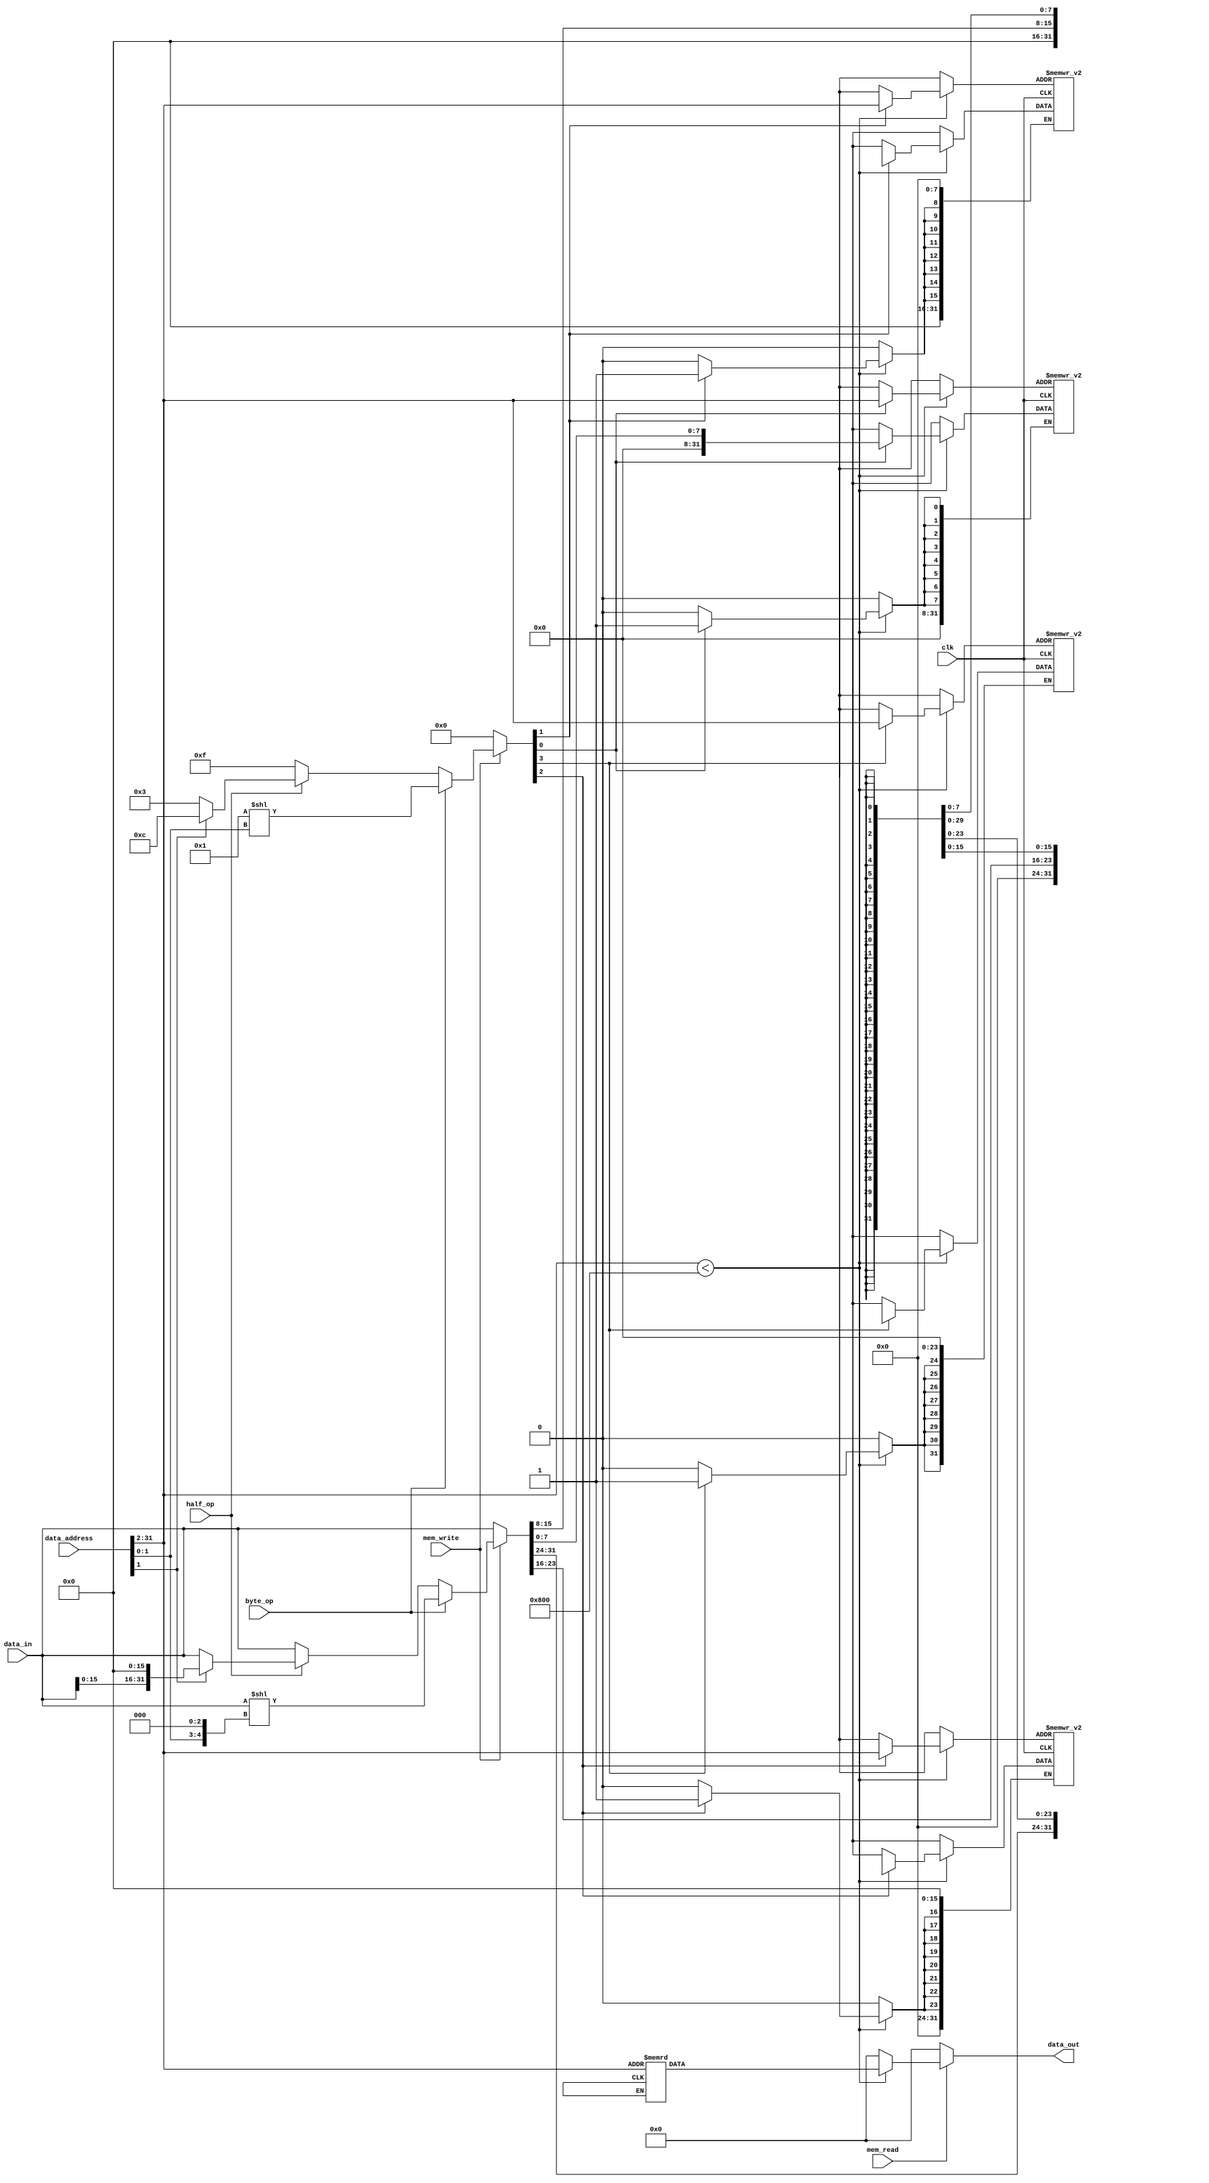
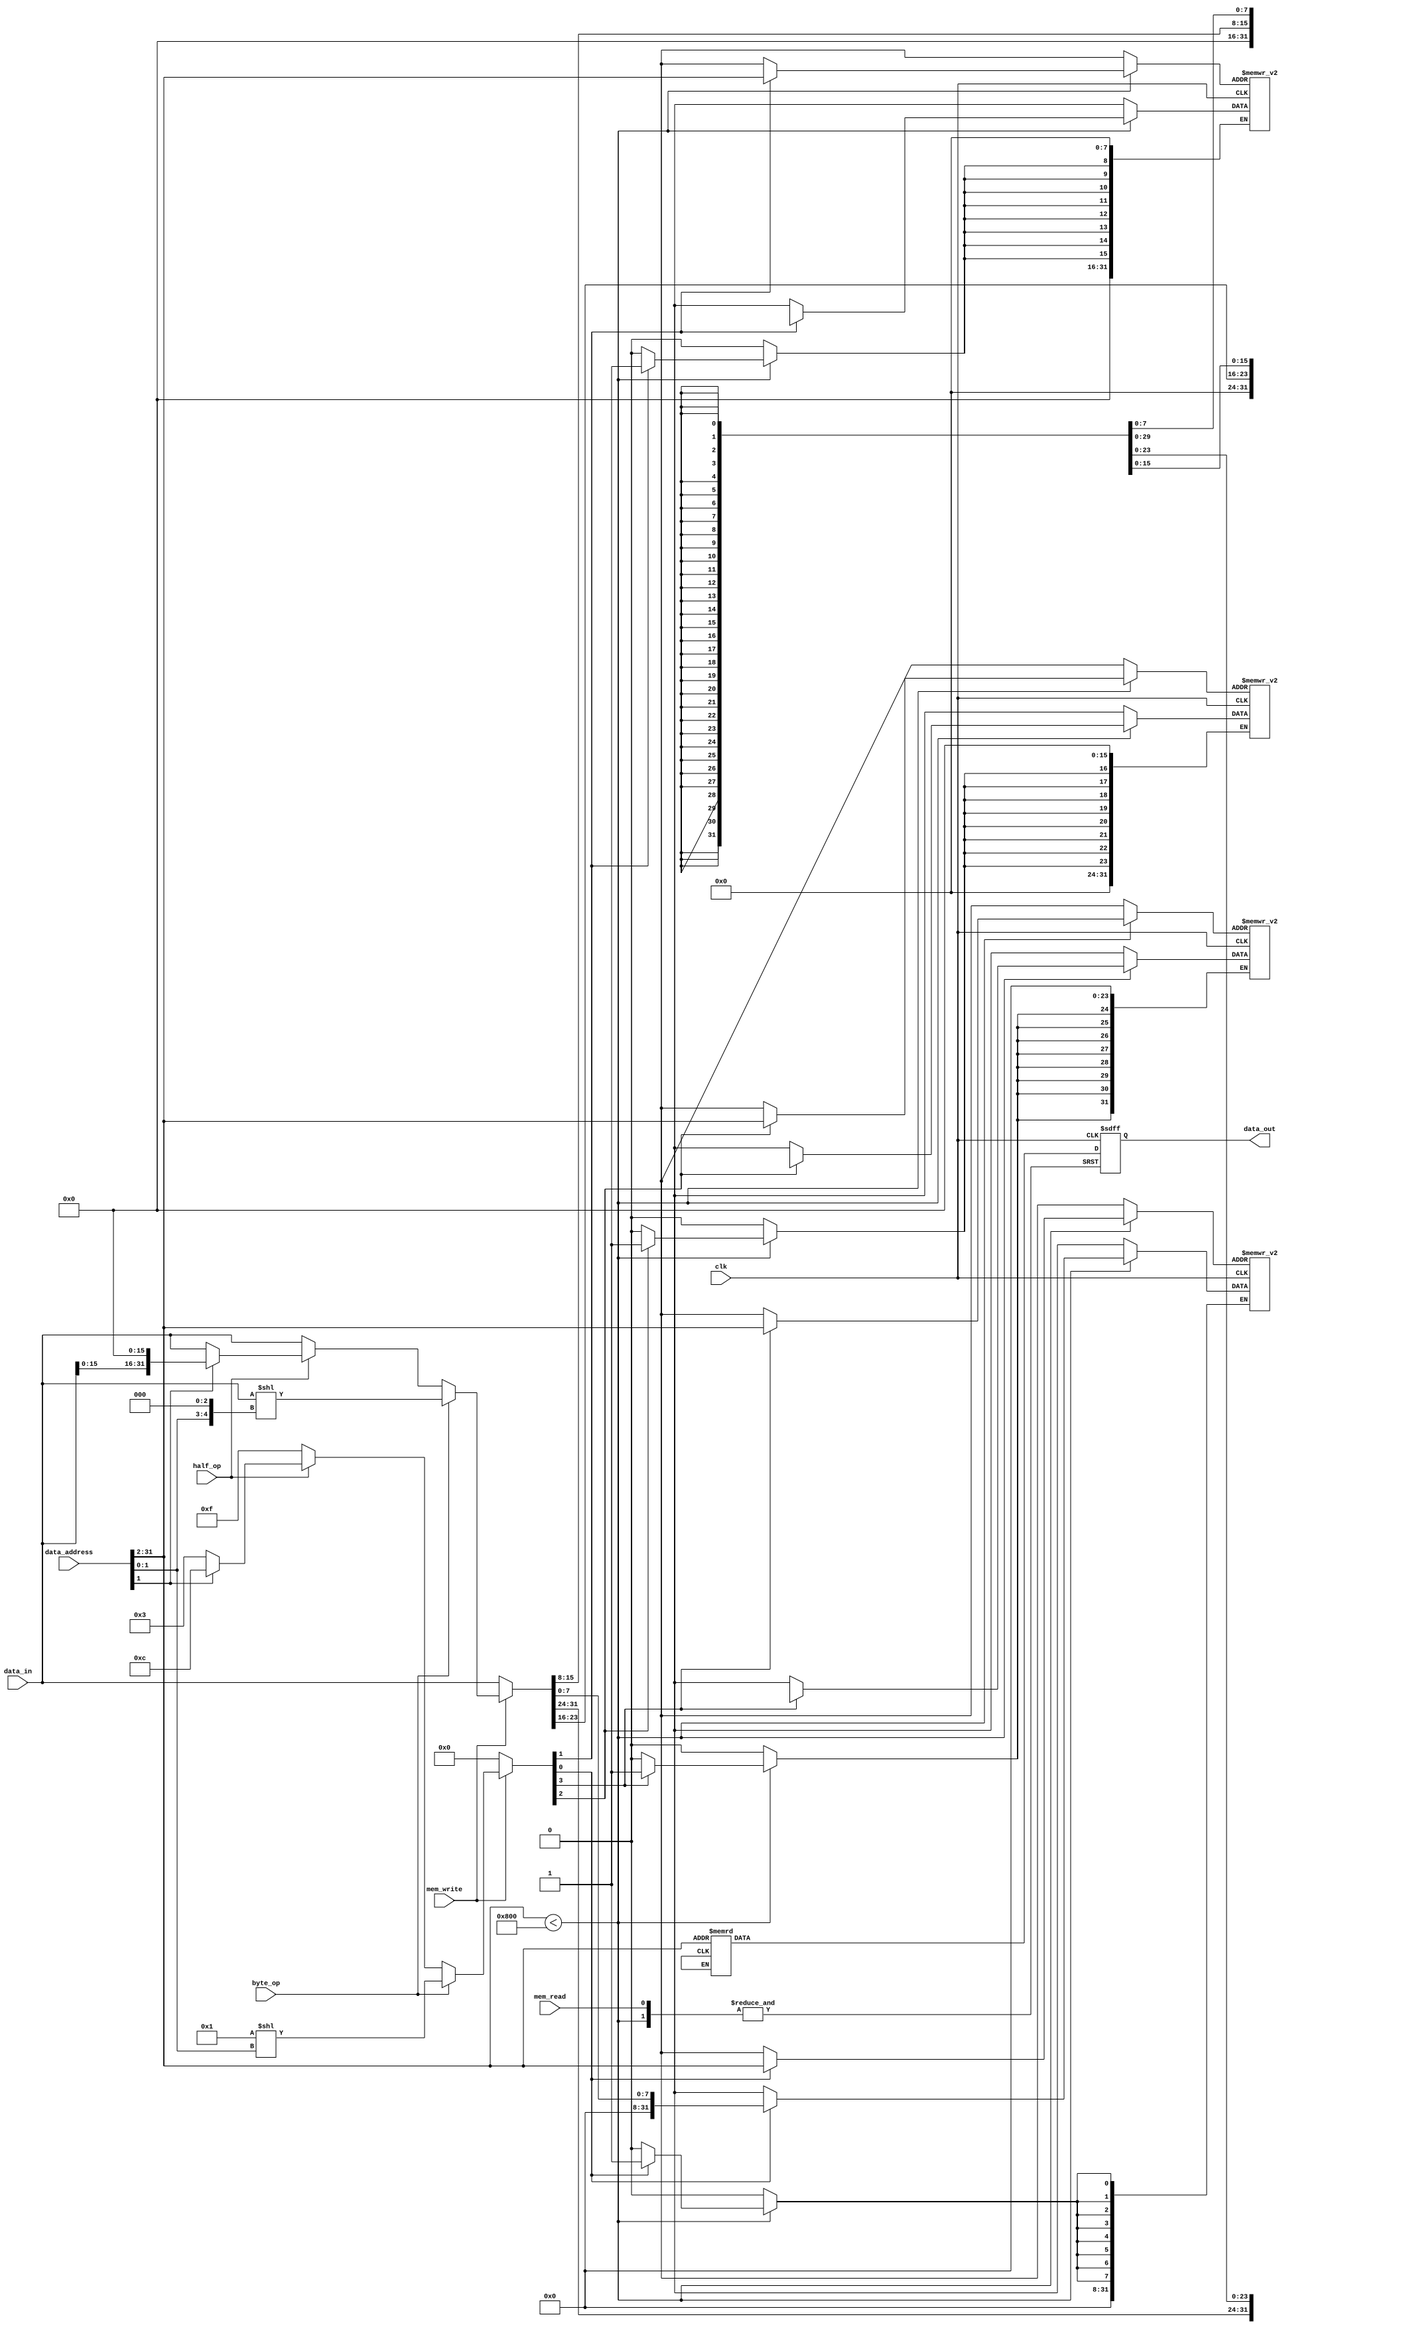
WIP

diff --git a/python_helper/logging.py b/python_helper/logging.py
@@ -1,202 +1,180 @@
-from cocotb.triggers import RisingEdge
+from cocotb.utils import get_sim_time
 
 from python_helper.converter import binary_to_assembly
 
-async def log_signals_pc_one(logger, dut):
-    while True:
-        await RisingEdge(dut.clk_from_FPGA)
-        # PC
-        try: 
-            logger.critical(f"PC = {dut.instr_add.value.to_unsigned()}")
-            logger.critical(f"PC = 0x{dut.instr_add.value.to_unsigned():08x}")
-        except Exception:
-            logger.critical(f"PC = {dut.instr_add.value}")
+# async def log_signals_single_cycle_rv32i(logger, dut):
+#     while True:
+#         await RisingEdge(dut.clk_from_FPGA)
+#         # PC
+#         try: 
+#             logger.critical(f"PC = {dut.instr_add.value.to_unsigned()}")
+#             logger.critical(f"PC = 0x{dut.instr_add.value.to_unsigned():08x}")
+#         except Exception:
+#             logger.critical(f"PC = {dut.instr_add.value}")
 
-        # Instruction 
-        try: 
-            logger.info(f"instruction = {binary_to_assembly((dut.instruction.value.to_unsigned()))}")
-        except Exception:
-            logger.info(f"instruction = {dut.instruction.value}")
+#         # Instruction 
+#         try: 
+#             logger.info(f"instruction = {binary_to_assembly((dut.instruction.value.to_unsigned()))}")
+#         except Exception:
+#             logger.info(f"instruction = {dut.instruction.value}")
 
-        # reg_write_control
-        try: 
-            logger.info(f"reg_write_control = {dut.core_instance.reg_file_instance.reg_write_control.value.to_unsigned()}")
-        except Exception:
-            logger.info(f"reg_write_control = {dut.core_instance.reg_file_instance.reg_write_control.value}")   
+#         # reg_write_control
+#         try: 
+#             logger.info(f"reg_write_control = {dut.core_instance.reg_file_instance.reg_write_control.value.to_unsigned()}")
+#         except Exception:
+#             logger.info(f"reg_write_control = {dut.core_instance.reg_file_instance.reg_write_control.value}")   
 
-        # reg_write_data
-        try: 
-            logger.info(f"reg_write_data = {dut.core_instance.reg_file_instance.reg_write_data.value.to_unsigned()} or " + 
-                        f"0x{dut.core_instance.reg_file_instance.reg_write_data.value.to_unsigned():08x}")
-        except Exception:
-            logger.info(f"reg_write_data = {dut.core_instance.reg_file_instance.reg_write_data.value}")   
+#         # reg_write_data
+#         try: 
+#             logger.info(f"reg_write_data = {dut.core_instance.reg_file_instance.reg_write_data.value.to_unsigned()} or " + 
+#                         f"0x{dut.core_instance.reg_file_instance.reg_write_data.value.to_unsigned():08x}")
+#         except Exception:
+#             logger.info(f"reg_write_data = {dut.core_instance.reg_file_instance.reg_write_data.value}")   
 
-        # dest_reg
-        try: 
-            logger.info(f"dest_reg = {dut.core_instance.reg_file_instance.dest_reg.value.to_unsigned()}")
-        except Exception:
-            logger.info(f"dest_reg = {dut.core_instance.reg_file_instance.dest_reg.value}")   
+#         # dest_reg
+#         try: 
+#             logger.info(f"dest_reg = {dut.core_instance.reg_file_instance.dest_reg.value.to_unsigned()}")
+#         except Exception:
+#             logger.info(f"dest_reg = {dut.core_instance.reg_file_instance.dest_reg.value}")   
 
-        # mem_write
-        try: 
-            logger.info(f"ram_mem_write = {dut.ram_instance.mem_write.value.to_unsigned()}")
-        except Exception:
-            logger.info(f"ram_mem_write = {dut.ram_instance.mem_write.value}")
+#         # mem_write
+#         try: 
+#             logger.info(f"ram_mem_write = {dut.ram_instance.mem_write.value.to_unsigned()}")
+#         except Exception:
+#             logger.info(f"ram_mem_write = {dut.ram_instance.mem_write.value}")
 
-        # data_in
-        try: 
-            logger.info(f"data_in ram = {dut.ram_instance.data_in.value.to_unsigned()} or " +
-                        f"0x{dut.ram_instance.data_in.value.to_unsigned():08x}")
-        except Exception:
-            logger.info(f"data_in ram = {dut.ram_instance.data_in.value}")
+#         # data_in
+#         try: 
+#             logger.info(f"data_in ram = {dut.ram_instance.data_in.value.to_unsigned()} or " +
+#                         f"0x{dut.ram_instance.data_in.value.to_unsigned():08x}")
+#         except Exception:
+#             logger.info(f"data_in ram = {dut.ram_instance.data_in.value}")
 
-        # mem_read
-        try: 
-            logger.info(f"ram_mem_read = {dut.ram_instance.mem_read.value.to_unsigned()}")
-        except Exception:
-            logger.info(f"ram_mem_read = {dut.ram_instance.mem_read.value}")
+#         # mem_read
+#         try: 
+#             logger.info(f"ram_mem_read = {dut.ram_instance.mem_read.value.to_unsigned()}")
+#         except Exception:
+#             logger.info(f"ram_mem_read = {dut.ram_instance.mem_read.value}")
 
-        # data_out
-        try: 
-            logger.info(f"data_out of ram = {dut.ram_instance.data_out.value.to_unsigned()} or " + 
-                        f"0x{dut.ram_instance.data_out.value.to_unsigned():08x}")
-        except Exception:
-            logger.info(f"data_out of ram = {dut.ram_instance.data_out.value}")
+#         # data_out
+#         try: 
+#             logger.info(f"data_out of ram = {dut.ram_instance.data_out.value.to_unsigned()} or " + 
+#                         f"0x{dut.ram_instance.data_out.value.to_unsigned():08x}")
+#         except Exception:
+#             logger.info(f"data_out of ram = {dut.ram_instance.data_out.value}")
 
-        # data_address
-        try: 
-            logger.info(f"data_address = {dut.ram_instance.data_address.value.to_unsigned()} or " + 
-                        f"0x{dut.ram_instance.data_address.value.to_unsigned():08x}")
-        except Exception:
-            logger.info(f"data_address = {dut.ram_instance.data_address.value}")
+#         # data_address
+#         try: 
+#             logger.info(f"data_address = {dut.ram_instance.data_address.value.to_unsigned()} or " + 
+#                         f"0x{dut.ram_instance.data_address.value.to_unsigned():08x}")
+#         except Exception:
+#             logger.info(f"data_address = {dut.ram_instance.data_address.value}")
 
-        # MMU mem_write_cpu
-        try: 
-            logger.info(f"MMU mem_write_cpu = {dut.MMU_instance.mem_write_cpu.value.to_unsigned()}")
-        except Exception:
-            logger.info(f"MMU mem_write_cpu = {dut.MMU_instance.mem_write_cpu.value}")
+#         # MMU mem_write_cpu
+#         try: 
+#             logger.info(f"MMU mem_write_cpu = {dut.MMU_instance.mem_write_cpu.value.to_unsigned()}")
+#         except Exception:
+#             logger.info(f"MMU mem_write_cpu = {dut.MMU_instance.mem_write_cpu.value}")
 
-        # MMU mem_read_cpu
-        try: 
-            logger.info(f"MMU mem_read_cpu = {dut.MMU_instance.mem_read_cpu.value.to_unsigned()}")
-        except Exception:
-            logger.info(f"MMU mem_read_cpu = {dut.MMU_instance.mem_read_cpu.value}")
+#         # MMU mem_read_cpu
+#         try: 
+#             logger.info(f"MMU mem_read_cpu = {dut.MMU_instance.mem_read_cpu.value.to_unsigned()}")
+#         except Exception:
+#             logger.info(f"MMU mem_read_cpu = {dut.MMU_instance.mem_read_cpu.value}")
 
-        # MMU addr
-        try: 
-            logger.info(f"MMU addr = {dut.MMU_instance.addr.value.to_unsigned()}")
-        except Exception:
-            logger.info(f"MMU addr = {dut.MMU_instance.addr.value}")
+#         # MMU addr
+#         try: 
+#             logger.info(f"MMU addr = {dut.MMU_instance.addr.value.to_unsigned()}")
+#         except Exception:
+#             logger.info(f"MMU addr = {dut.MMU_instance.addr.value}")
 
-        # MMU uart_tx_busy
-        try: 
-            logger.info(f"MMU uart_tx_busy = {dut.MMU_instance.uart_tx_busy.value.to_unsigned()}")
-        except Exception:
-            logger.info(f"MMU uart_tx_busy = {dut.MMU_instance.uart_tx_busy.value}")
+#         # MMU uart_tx_busy
+#         try: 
+#             logger.info(f"MMU uart_tx_busy = {dut.MMU_instance.uart_tx_busy.value.to_unsigned()}")
+#         except Exception:
+#             logger.info(f"MMU uart_tx_busy = {dut.MMU_instance.uart_tx_busy.value}")
 
-        # MMU uart_rx_valid
-        try: 
-            logger.info(f"MMU uart_rx_valid = {dut.MMU_instance.uart_rx_valid}")
-        except Exception:
-            logger.info(f"MMU uart_rx_valid = {dut.MMU_instance.uart_rx_valid.value.to_unsigned()}")
+#         # MMU uart_rx_valid
+#         try: 
+#             logger.info(f"MMU uart_rx_valid = {dut.MMU_instance.uart_rx_valid}")
+#         except Exception:
+#             logger.info(f"MMU uart_rx_valid = {dut.MMU_instance.uart_rx_valid.value.to_unsigned()}")
 
+def log_signals_five_stage_rv32i(logger, dut):
+    sim_time = get_sim_time('ns')
+    logger.info(f"\n\n")
 
+    logger.critical(f"---------Stage-01 FETCH(SIM TIME: {sim_time} ns)-----------")
+    # PC
+    try: 
+        logger.info(f"PC = {dut.core_instance.instruction_address.value.to_unsigned()} OR " + 
+                    f"0x{dut.core_instance.instruction_address.value.to_unsigned():08x}")
+    except Exception:
+        logger.info(f"PC = {dut.core_instance.instruction_address.value}")
 
-def log_signals_pc_one_sync(logger, dut):
-        # PC
-        try: 
-            logger.critical(f"PC = {dut.instr_add.value.to_unsigned()}")
-            logger.critical(f"PC = 0x{dut.instr_add.value.to_unsigned():08x}")
-        except Exception:
-            logger.critical(f"PC = {dut.instr_add.value}")
+    logger.critical(f"---------Stage-02 DECODE AND EXECUTE(SIM TIME: {sim_time} ns)-----------")
+    # instruction
+    try: 
+        logger.info(f"instruction = {binary_to_assembly((dut.core_instance.if_id_reg_instance.inst_out.value.to_unsigned()))}")
+    except Exception:
+        logger.info(f"instruction = {dut.core_instance.if_id_reg_instance.inst_out.value}")
 
-        # Instruction 
-        try: 
-            logger.info(f"instruction = {binary_to_assembly((dut.instruction.value.to_unsigned()))}")
-        except Exception:
-            logger.info(f"instruction = {dut.instruction.value}")
+    # main_alu_instance alu_out
+    try: 
+        logger.info(f"alu_out = {dut.core_instance.main_alu_instance.out.value.to_unsigned()}")
+    except Exception:
+        logger.info(f"alu_out = {dut.core_instance.main_alu_instance.out.value}")
 
-        # reg_write_control
-        try: 
-            logger.info(f"reg_write_control = {dut.core_instance.reg_file_instance.reg_write_control.value.to_unsigned()}")
-        except Exception:
-            logger.info(f"reg_write_control = {dut.core_instance.reg_file_instance.reg_write_control.value}")   
+    # mem_write
+    try: 
+        logger.info(f"ram_mem_write = {dut.ram_instance.mem_write.value.to_unsigned()}")
+    except Exception:
+        logger.info(f"ram_mem_write = {dut.ram_instance.mem_write.value}")
 
-        # reg_write_data
-        try: 
-            logger.info(f"reg_write_data = {dut.core_instance.reg_file_instance.reg_write_data.value.to_unsigned()} or " + 
-                        f"0x{dut.core_instance.reg_file_instance.reg_write_data.value.to_unsigned():08x}")
-        except Exception:
-            logger.info(f"reg_write_data = {dut.core_instance.reg_file_instance.reg_write_data.value}")   
+    # data_in
+    try: 
+        logger.info(f"data_in ram = {dut.ram_instance.data_in.value.to_signed()} OR " +
+                    f"0x{dut.ram_instance.data_in.value.to_unsigned():08x}")
+    except Exception:
+        logger.info(f"data_in ram = {dut.ram_instance.data_in.value}")
 
-        # dest_reg
-        try: 
-            logger.info(f"dest_reg = {dut.core_instance.reg_file_instance.dest_reg.value.to_unsigned()}")
-        except Exception:
-            logger.info(f"dest_reg = {dut.core_instance.reg_file_instance.dest_reg.value}")   
+    # mem_read
+    try: 
+        logger.info(f"ram_mem_read = {dut.ram_instance.mem_read.value.to_unsigned()}")
+    except Exception:
+        logger.info(f"ram_mem_read = {dut.ram_instance.mem_read.value}")
 
-        # mem_write
-        try: 
-            logger.info(f"ram_mem_write = {dut.ram_instance.mem_write.value.to_unsigned()}")
-        except Exception:
-            logger.info(f"ram_mem_write = {dut.ram_instance.mem_write.value}")
+    # data_address
+    try: 
+        logger.info(f"data_address = {dut.ram_instance.data_address.value.to_unsigned()} or " + 
+                    f"0x{dut.ram_instance.data_address.value.to_unsigned():08x}")
+    except Exception:
+        logger.info(f"data_address = {dut.ram_instance.data_address.value}")
 
-        # data_in
-        try: 
-            logger.info(f"data_in ram = {dut.ram_instance.data_in.value.to_unsigned()} or " +
-                        f"0x{dut.ram_instance.data_in.value.to_unsigned():08x}")
-        except Exception:
-            logger.info(f"data_in ram = {dut.ram_instance.data_in.value}")
+    logger.critical(f"---------Stage-03 MEMORY AND WRITE-BACK(SIM TIME: {sim_time} ns)-----------")
+    # reg_write_control
+    try: 
+        logger.info(f"reg_write_control = {dut.core_instance.reg_file_instance.reg_write_control.value.to_unsigned()}")
+    except Exception:
+        logger.info(f"reg_write_control = {dut.core_instance.reg_file_instance.reg_write_control.value}")   
 
-        # mem_read
-        try: 
-            logger.info(f"ram_mem_read = {dut.ram_instance.mem_read.value.to_unsigned()}")
-        except Exception:
-            logger.info(f"ram_mem_read = {dut.ram_instance.mem_read.value}")
+    # reg_write_data
+    try: 
+        logger.info(f"reg_write_data = {dut.core_instance.reg_file_instance.reg_write_data.value.to_unsigned()} or " + 
+                    f"0x{dut.core_instance.reg_file_instance.reg_write_data.value.to_unsigned():08x}")
+    except Exception:
+        logger.info(f"reg_write_data = {dut.core_instance.reg_file_instance.reg_write_data.value}")   
 
-        # data_out
-        try: 
-            logger.info(f"data_out of ram = {dut.ram_instance.data_out.value.to_unsigned()} or " + 
-                        f"0x{dut.ram_instance.data_out.value.to_unsigned():08x}")
-        except Exception:
-            logger.info(f"data_out of ram = {dut.ram_instance.data_out.value}")
+    # dest_reg
+    try: 
+        logger.info(f"dest_reg = {dut.core_instance.reg_file_instance.dest_reg.value.to_unsigned()}")
+    except Exception:
+        logger.info(f"dest_reg = {dut.core_instance.reg_file_instance.dest_reg.value}")   
 
-        # data_address
-        try: 
-            logger.info(f"data_address = {dut.ram_instance.data_address.value.to_unsigned()} or " + 
-                        f"0x{dut.ram_instance.data_address.value.to_unsigned():08x}")
-        except Exception:
-            logger.info(f"data_address = {dut.ram_instance.data_address.value}")
-
-        # MMU mem_write_cpu
-        try: 
-            logger.info(f"MMU mem_write_cpu = {dut.MMU_instance.mem_write_cpu.value.to_unsigned()}")
-        except Exception:
-            logger.info(f"MMU mem_write_cpu = {dut.MMU_instance.mem_write_cpu.value}")
-
-        # MMU mem_read_cpu
-        try: 
-            logger.info(f"MMU mem_read_cpu = {dut.MMU_instance.mem_read_cpu.value.to_unsigned()}")
-        except Exception:
-            logger.info(f"MMU mem_read_cpu = {dut.MMU_instance.mem_read_cpu.value}")
-
-        # MMU addr
-        try: 
-            logger.info(f"MMU addr = {dut.MMU_instance.addr.value.to_unsigned()}")
-        except Exception:
-            logger.info(f"MMU addr = {dut.MMU_instance.addr.value}")
-
-        # MMU uart_tx_busy
-        try: 
-            logger.info(f"MMU uart_tx_busy = {dut.MMU_instance.uart_tx_busy.value.to_unsigned()}")
-        except Exception:
-            logger.info(f"MMU uart_tx_busy = {dut.MMU_instance.uart_tx_busy.value}")
-
-        # MMU uart_rx_valid
-        try: 
-            logger.info(f"MMU uart_rx_valid = {dut.MMU_instance.uart_rx_valid.value.to_unsigned()}")
-        except Exception:
-            logger.info(f"MMU uart_rx_valid = {dut.MMU_instance.uart_rx_valid.value}")
-
-
+    # data_out
+    try: 
+        logger.info(f"data_out of ram = {dut.ram_instance.data_out.value.to_unsigned()} or " + 
+                    f"0x{dut.ram_instance.data_out.value.to_unsigned():08x}")
+    except Exception:
+        logger.info(f"data_out of ram = {dut.ram_instance.data_out.value}")
 
